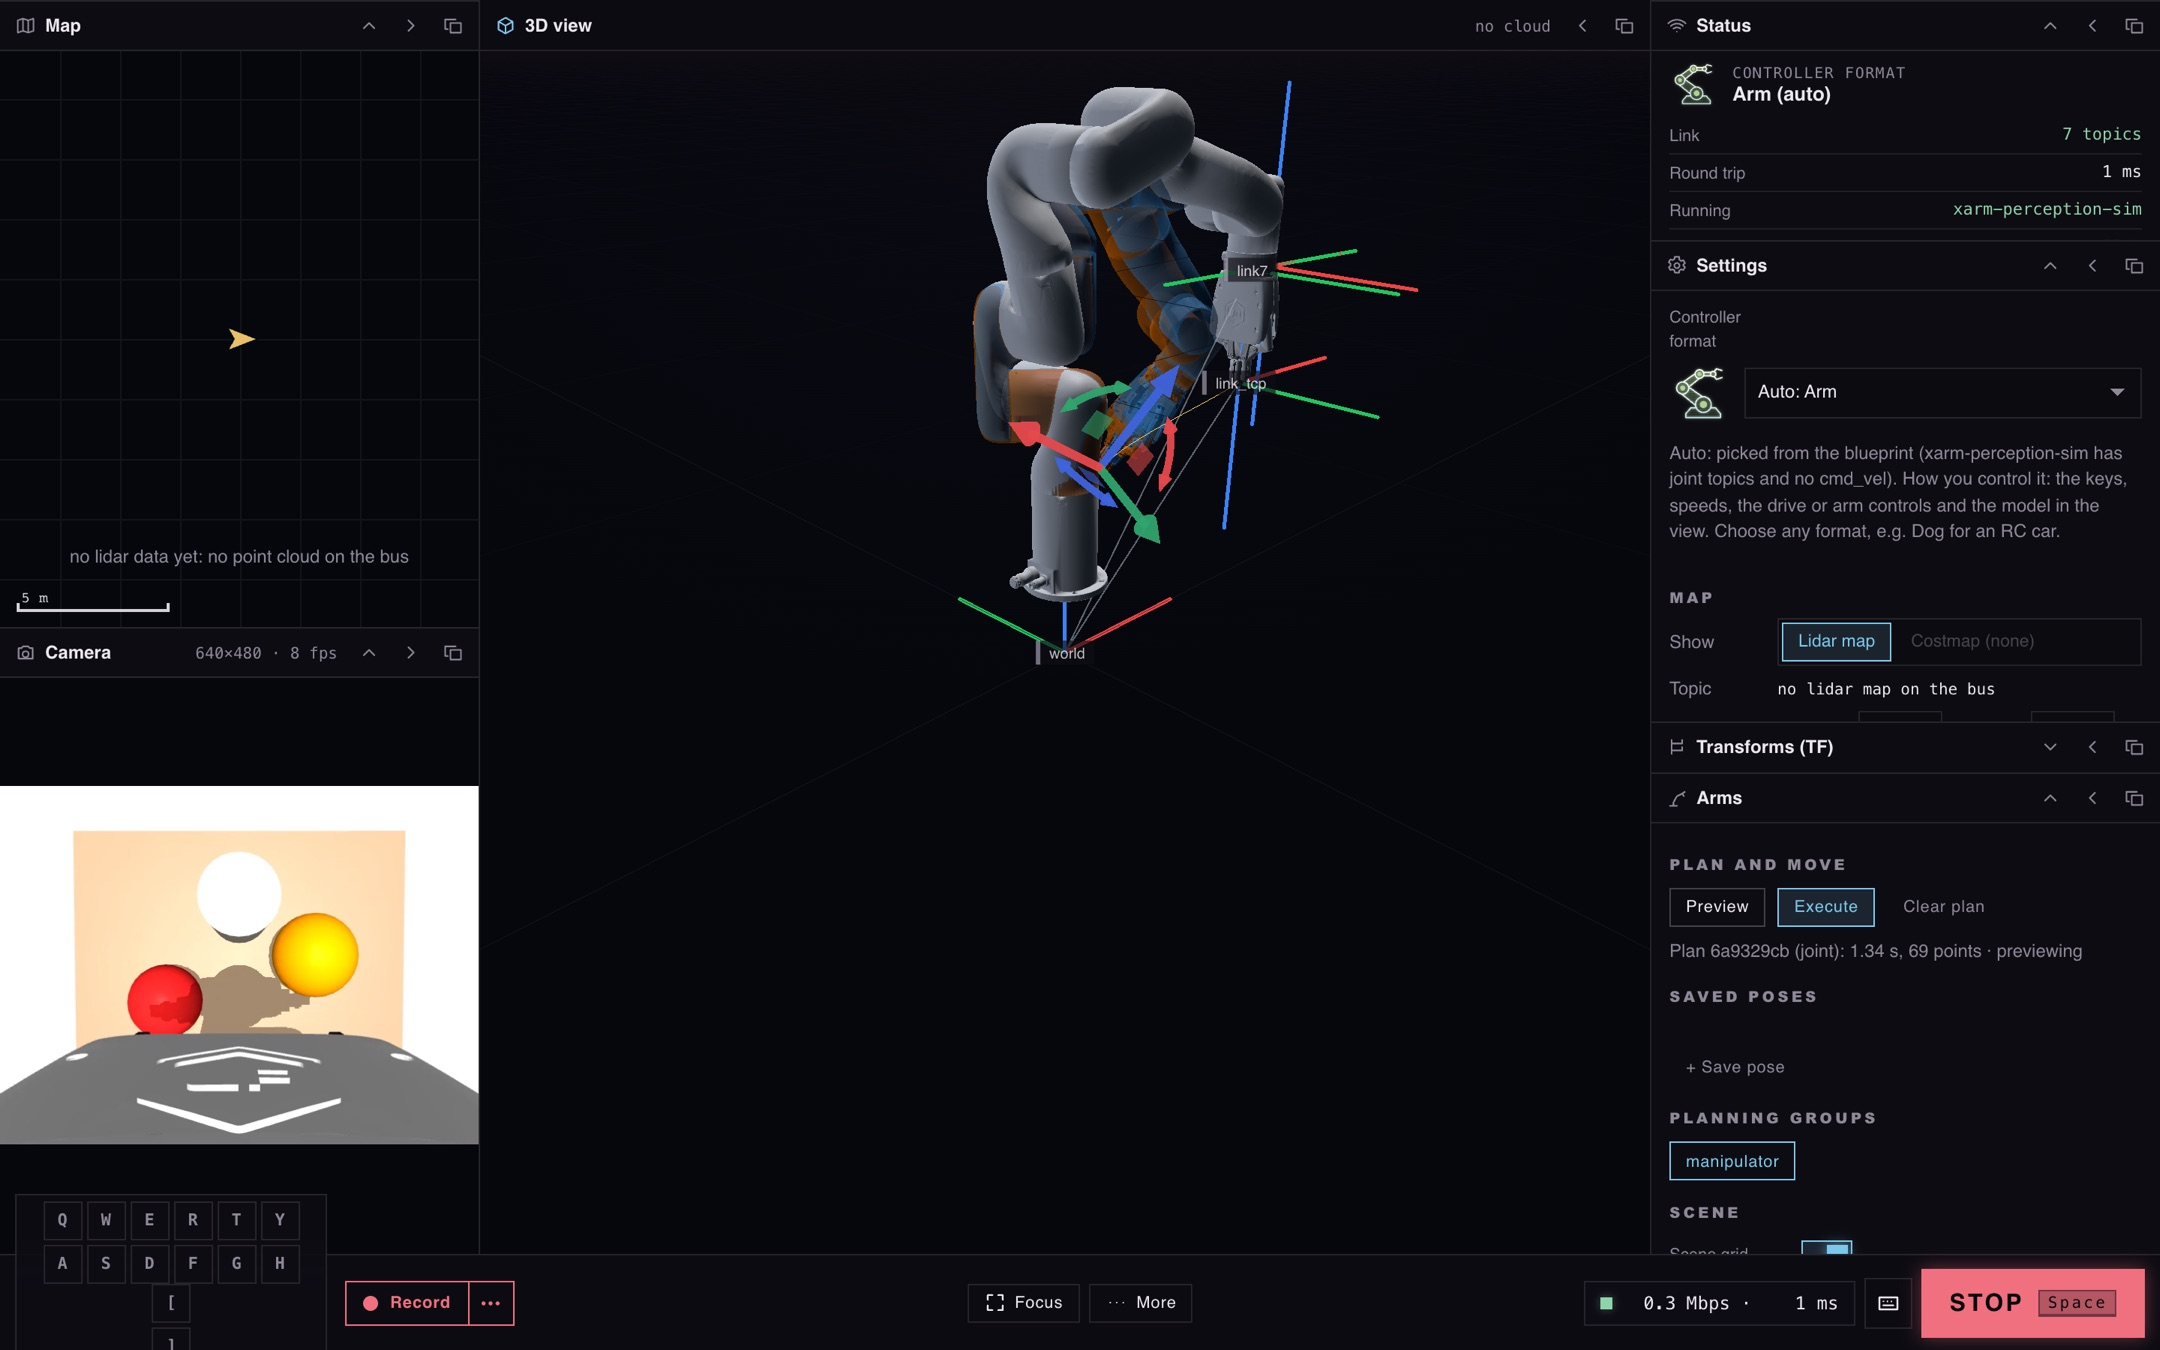
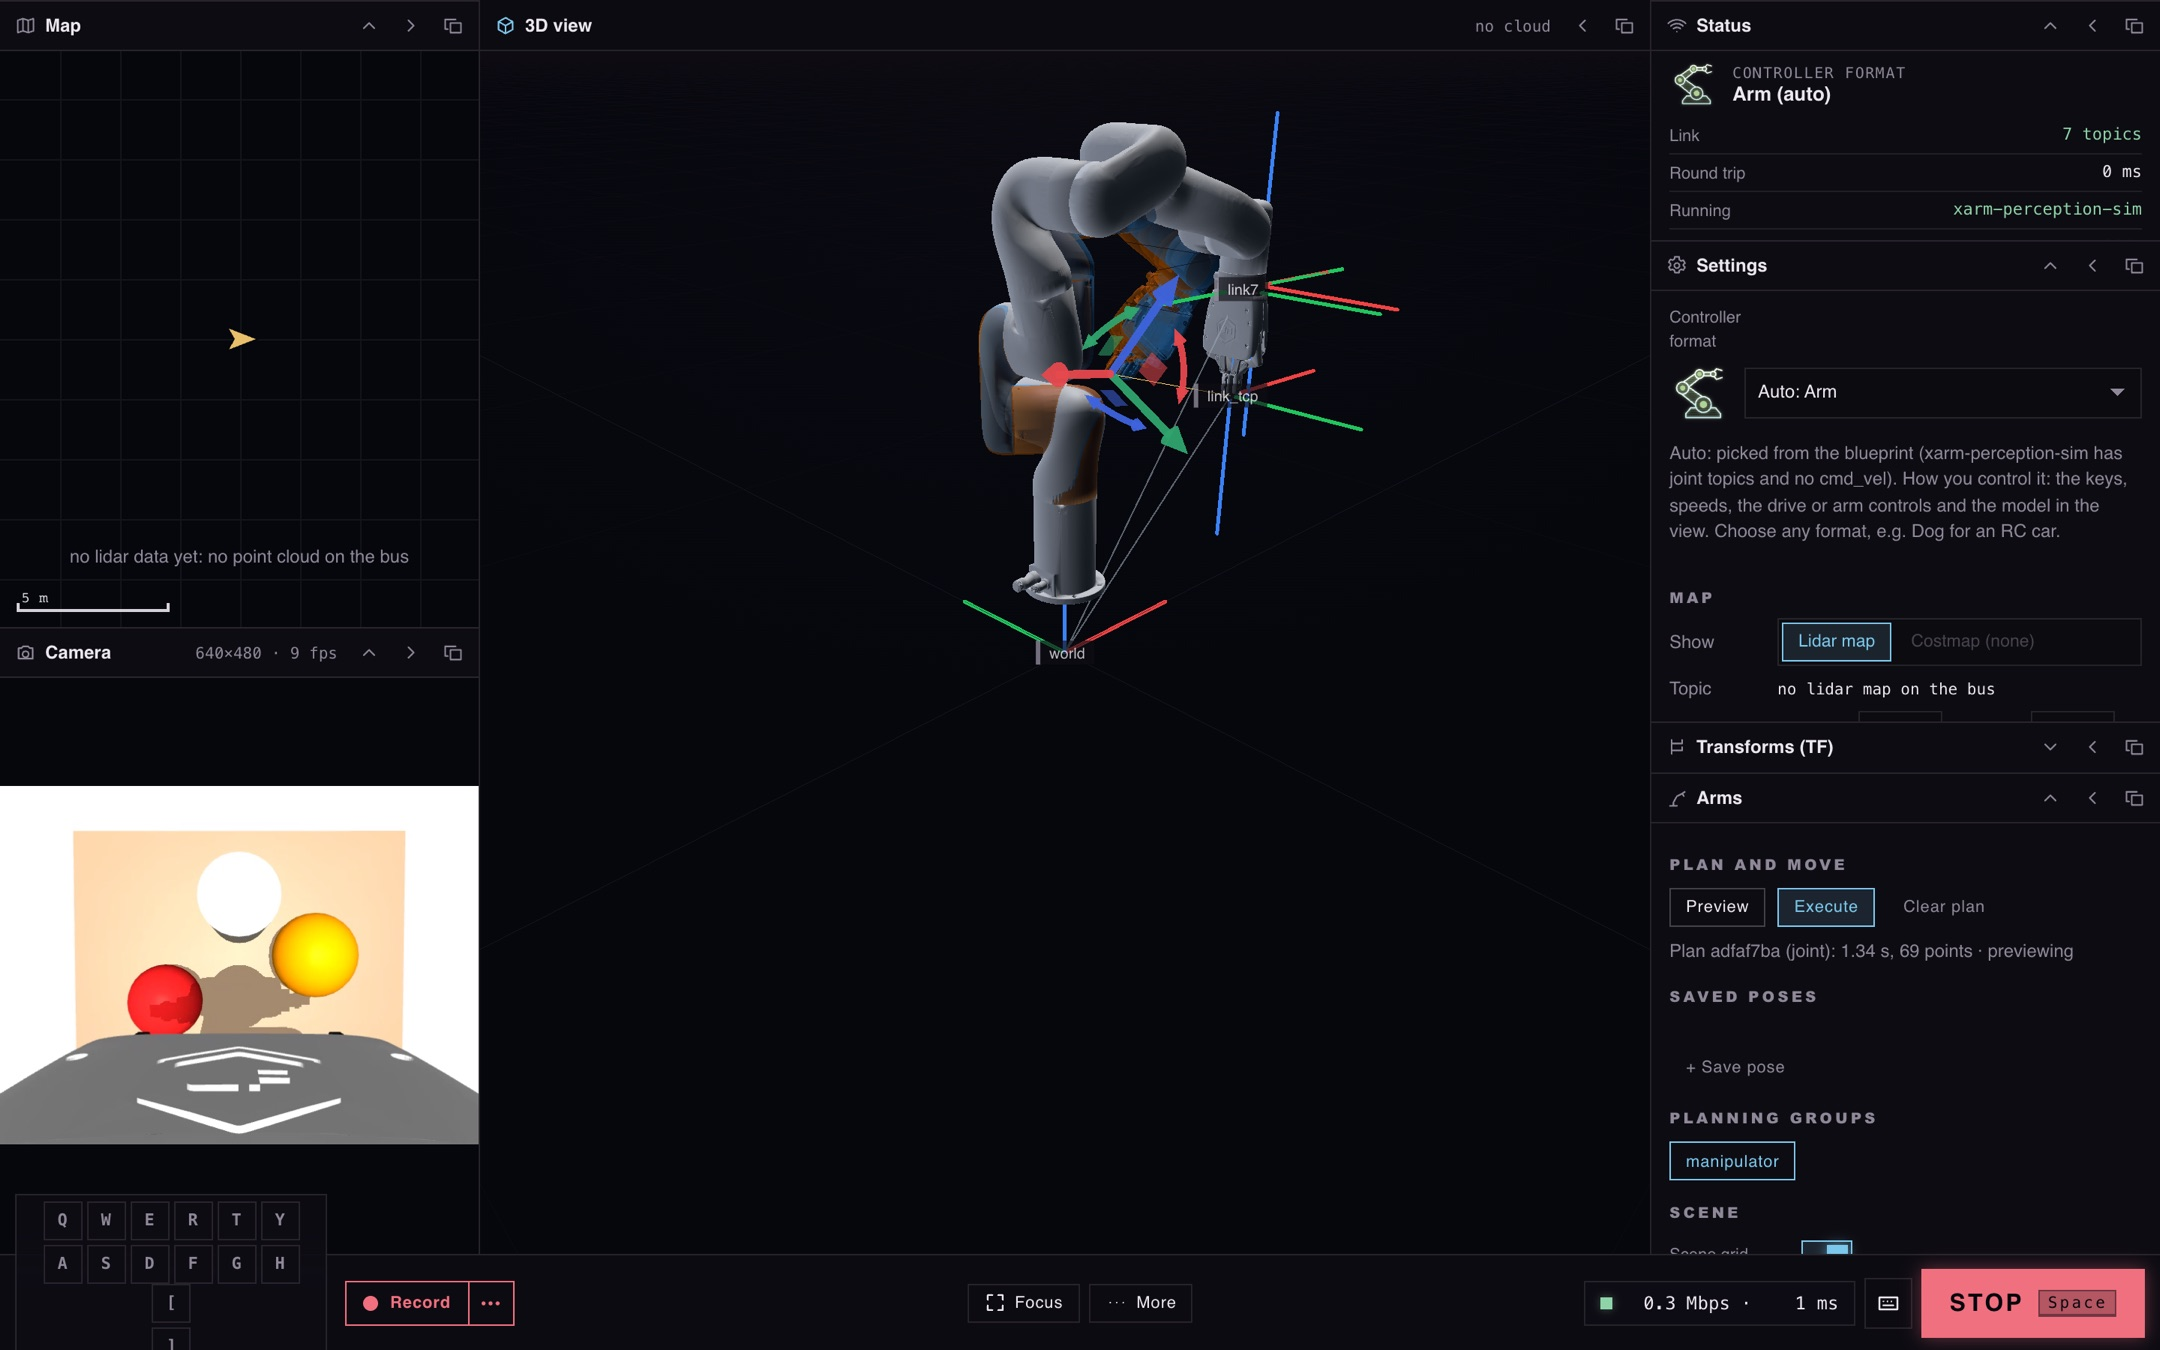
README: the arm shot framed whole; screenshots.py frames it the same

Changed region(s): [[0.4343, 0.0622, 0.6514, 0.4044], [0.8065, 0.6844, 0.9616, 0.7156], [0.4653, 0.4044, 0.4963, 0.4667]]

diff --git a/docs/screenshots.py b/docs/screenshots.py
@@ -107,6 +107,9 @@ async def arm(page):
     await page.wait_for_timeout(10000)
     await swap(page, "3D view")
     await page.wait_for_timeout(5000)
+    await page.mouse.move(690, 200)  # a step back, so the whole arm is in the frame
+    await page.mouse.wheel(0, 200)
+    await page.wait_for_timeout(1500)
     sliders = page.locator('[data-testid="manip-joints"] input[type="range"]')
     for index, value in [(0, "0.9"), (1, "0.35"), (2, "-0.6"), (4, "0.8")]:
         if await sliders.count() > index:
